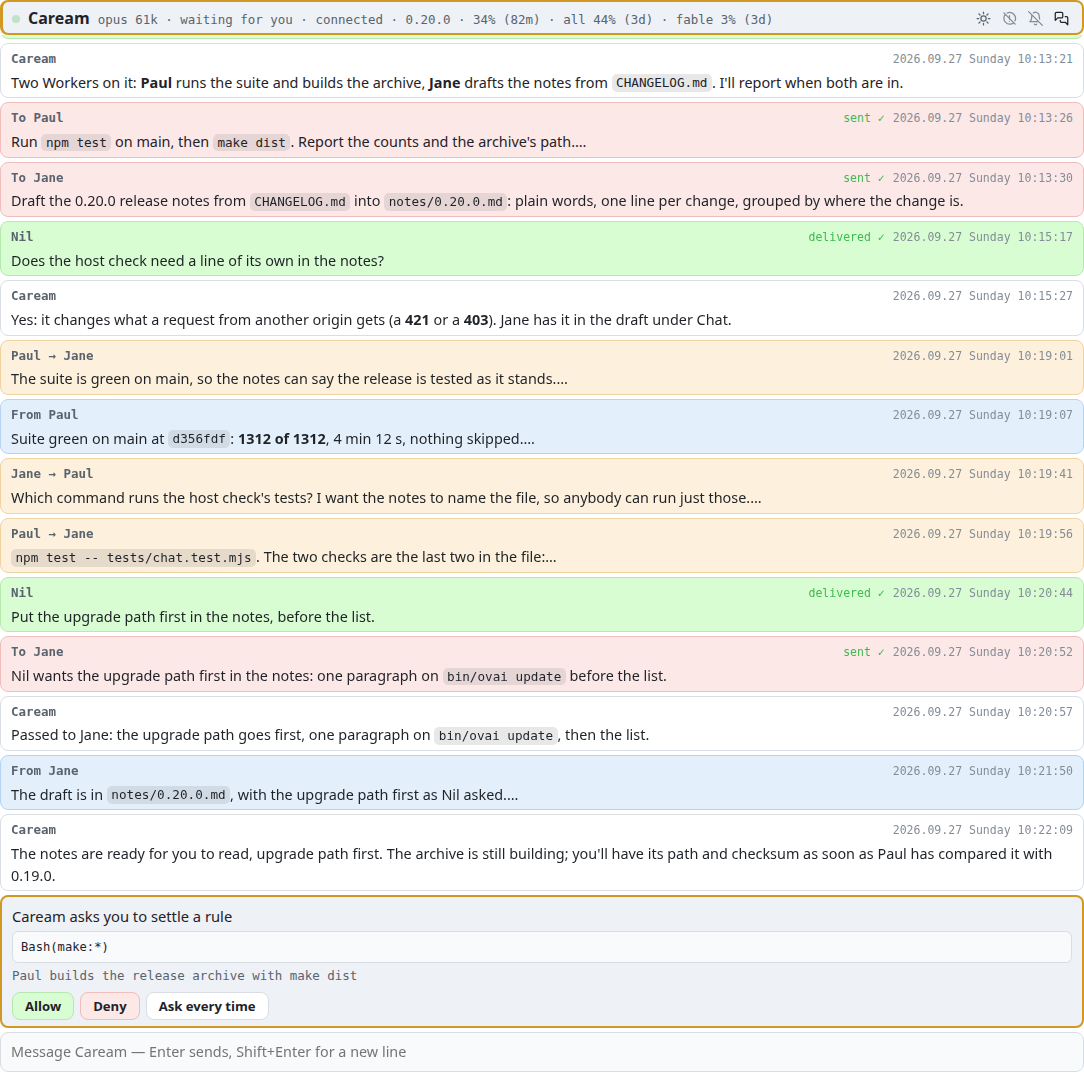
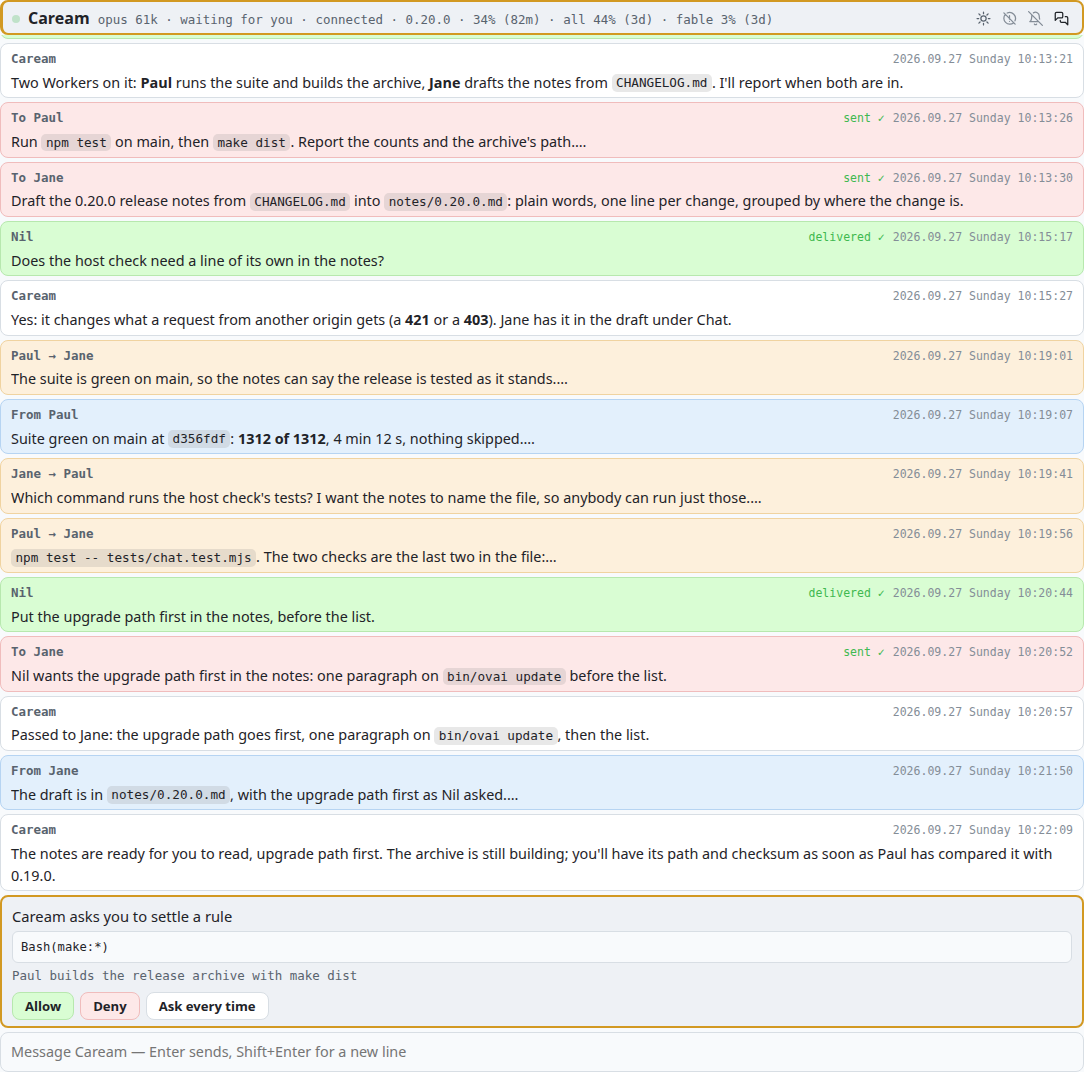
media: the ovai shots come light and dark, following the site's theme

diff --git a/permissions/index.html b/permissions/index.html
@@ -135,7 +135,8 @@
         pressing it lets the call through and leaves the instance allowing that shape.</dd>
     </dl>
     <figure class="shot">
-      <a href="/media/media-11.png"><img src="/media/media-11.png" width="406" height="1072" alt=""></a>
+      <a class="light" href="/media/media-11.png"><img src="/media/media-11.png" width="406" height="1072" alt=""></a>
+      <a class="dark" href="/media/media-11-dark.png"><img src="/media/media-11-dark.png" width="406" height="1072" alt=""></a>
       <figcaption>screenshot: the card &mdash; <code>Paul wants to use Bash</code>, the command, the
         reason, Allow / Deny with its sentence box / Always allow <code>Bash(npm:*)</code> and
         <code>Bash(make:*)</code> for a compound</figcaption>
@@ -241,7 +242,8 @@
       but <code>Read</code>.
     </p>
     <figure class="shot">
-      <a href="/media/media-12.png"><img src="/media/media-12.png" width="1084" height="1072" alt=""></a>
+      <a class="light" href="/media/media-12.png"><img src="/media/media-12.png" width="1084" height="1072" alt=""></a>
+      <a class="dark" href="/media/media-12-dark.png"><img src="/media/media-12-dark.png" width="1084" height="1072" alt=""></a>
       <figcaption>screenshot: the Leader's rule card from <code>permission</code> &mdash; the rule, the
         reason, Allow / Deny / Ask every time</figcaption>
     </figure>

diff --git a/how-it-works/index.html b/how-it-works/index.html
@@ -156,7 +156,8 @@
       Worker get the same panel, with the same text box under it, and you can type on any of them.
     </p>
     <figure class="shot">
-      <a href="/media/media-3.png"><img src="/media/media-3.png" width="1084" height="35" alt=""></a>
+      <a class="light" href="/media/media-3.png"><img src="/media/media-3.png" width="1084" height="35" alt=""></a>
+      <a class="dark" href="/media/media-3-dark.png"><img src="/media/media-3-dark.png" width="1084" height="35" alt=""></a>
       <figcaption>screenshot: the Leader's head close up &mdash; dot, name, model, context in k, state
         word, connected, the usage windows, the theme, notification and messages switches</figcaption>
     </figure>
@@ -183,7 +184,8 @@
       alike.
     </p>
     <figure class="shot">
-      <a href="/media/media-4.png"><img src="/media/media-4.png" width="406" height="1072" alt=""></a>
+      <a class="light" href="/media/media-4.png"><img src="/media/media-4.png" width="406" height="1072" alt=""></a>
+      <a class="dark" href="/media/media-4-dark.png"><img src="/media/media-4-dark.png" width="406" height="1072" alt=""></a>
       <figcaption>screenshot: a Worker's panel with tool lines and a folded message
         (<em>double-click to see the whole message</em>)</figcaption>
     </figure>

diff --git a/style.css b/style.css
@@ -404,6 +404,14 @@ table.whose td:nth-child(2) { white-space: nowrap; }  /* the whose column is one
 /* A recorded media figure: the shot at its own size, never wider than the column, the caption under it. */
 .shot { margin-inline: 0; margin-bottom: 0; }
 .shot img { display: block; max-width: 100%; height: auto; }
+/* A shot of the ovai page comes as a light and a dark file; the one matching the site's theme shows. */
+.shot > a.dark { display: none; }
+:root[data-theme="dark"] .shot > a.light { display: none; }
+:root[data-theme="dark"] .shot > a.dark { display: inline; }
+@media (prefers-color-scheme: dark) {
+  :root:not([data-theme="light"]) .shot > a.light { display: none; }
+  :root:not([data-theme="light"]) .shot > a.dark { display: inline; }
+}
 .shot figcaption { font-size: 0.92rem; color: var(--text-soft); margin-top: 0.5rem; }
 
 /* A diagram in words: a terminal box that is not a command. */

diff --git a/team/index.html b/team/index.html
@@ -186,7 +186,8 @@
       code block folds behind one line; a double click opens it.
     </p>
     <figure class="shot">
-      <a href="/media/media-9.png"><img src="/media/media-9.png" width="1084" height="1072" alt=""></a>
+      <a class="light" href="/media/media-9.png"><img src="/media/media-9.png" width="1084" height="1072" alt=""></a>
+      <a class="dark" href="/media/media-9-dark.png"><img src="/media/media-9-dark.png" width="1084" height="1072" alt=""></a>
       <figcaption>screenshot: the Leader's panel with an overheard <code>Paul &rarr; Jane: &hellip;</code>
         line between its own rows</figcaption>
     </figure>

diff --git a/faq/index.html b/faq/index.html
@@ -146,7 +146,8 @@
       stopped, and brings them back with <code>hire</code>.
     </p>
     <figure class="shot">
-      <a href="/media/media-18.png"><img src="/media/media-18.png" width="1084" height="1072" alt=""></a>
+      <a class="light" href="/media/media-18.png"><img src="/media/media-18.png" width="1084" height="1072" alt=""></a>
+      <a class="dark" href="/media/media-18-dark.png"><img src="/media/media-18-dark.png" width="1084" height="1072" alt=""></a>
       <figcaption>screenshot: a held panel saying which window is spent and when it resets</figcaption>
     </figure>
     <p>
